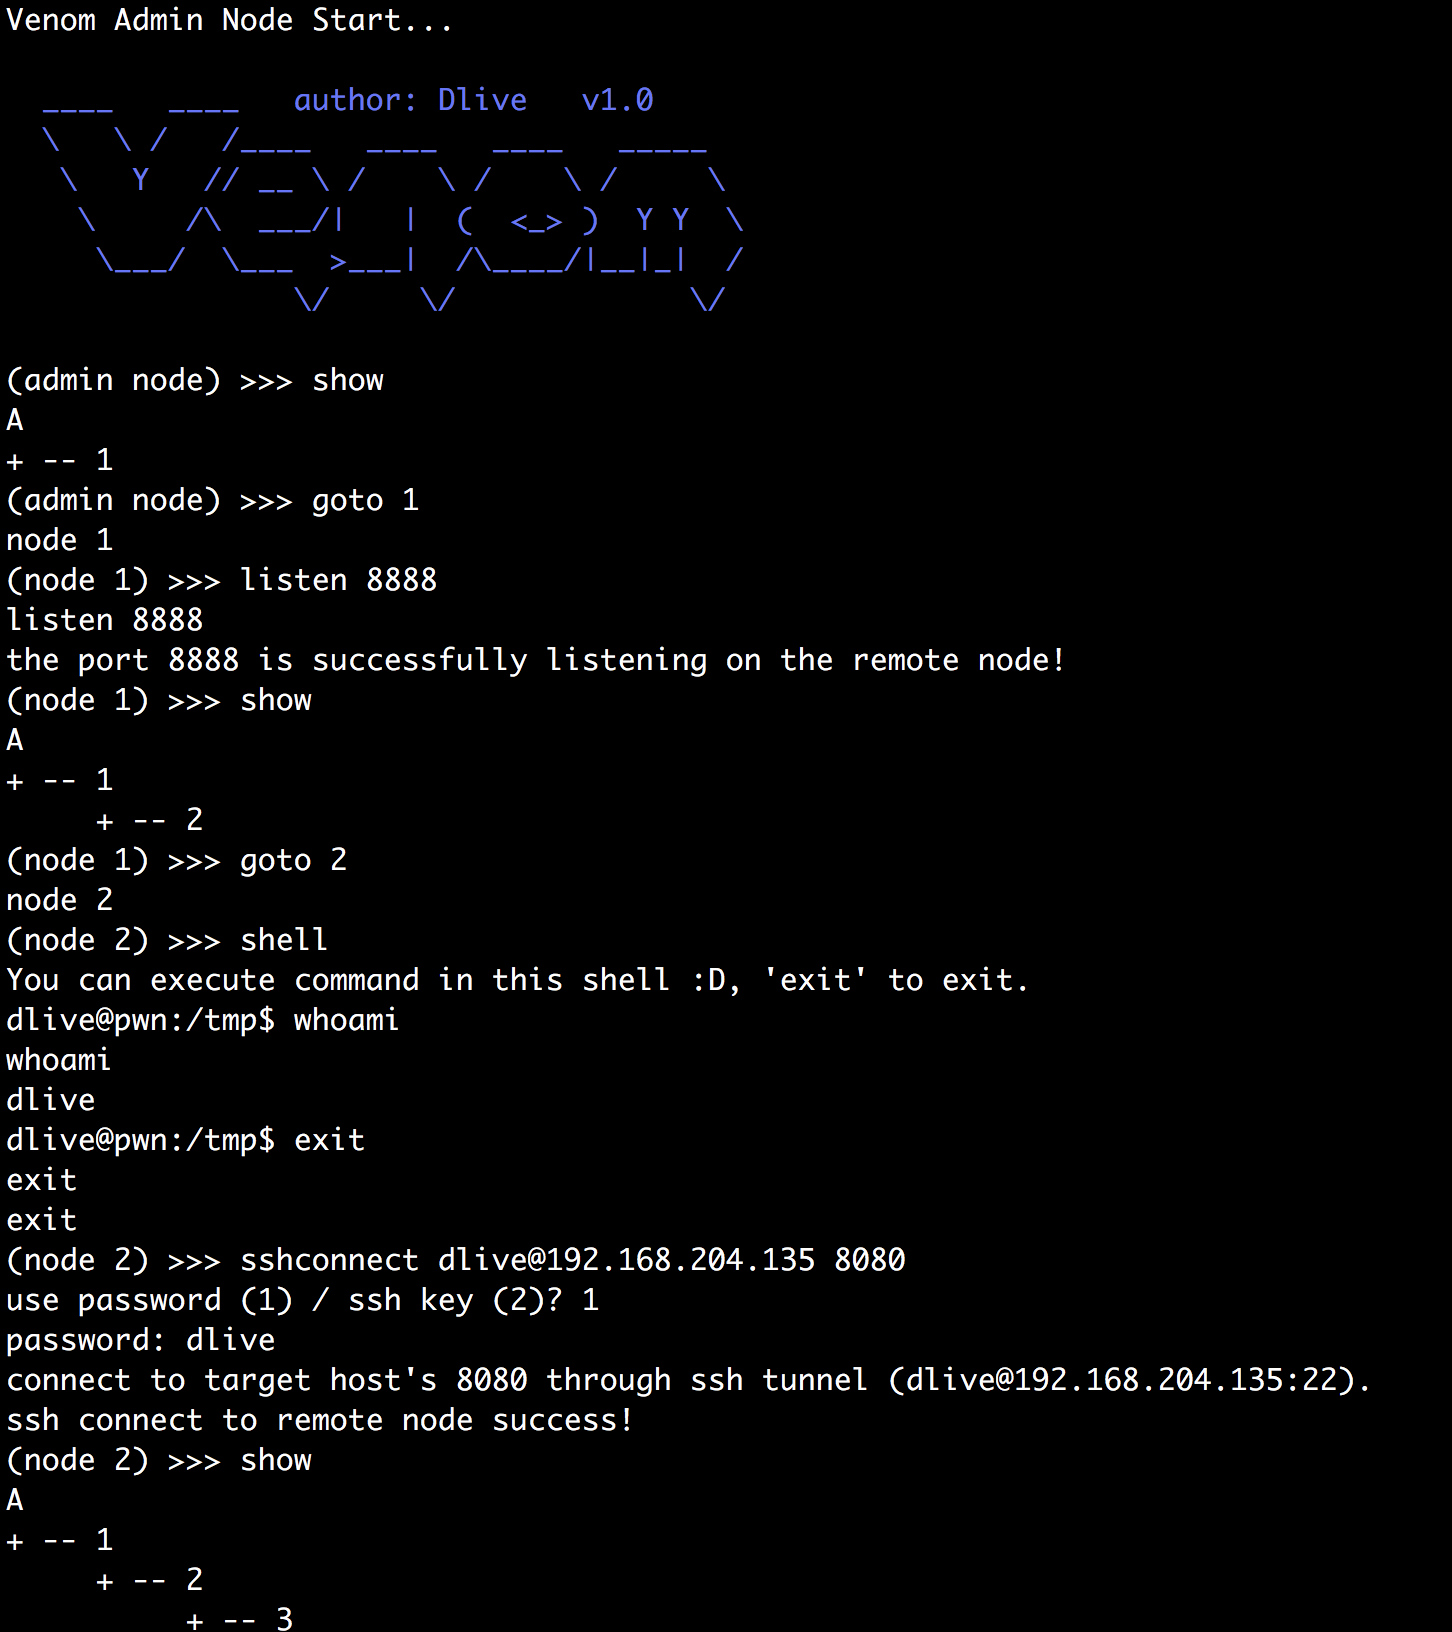
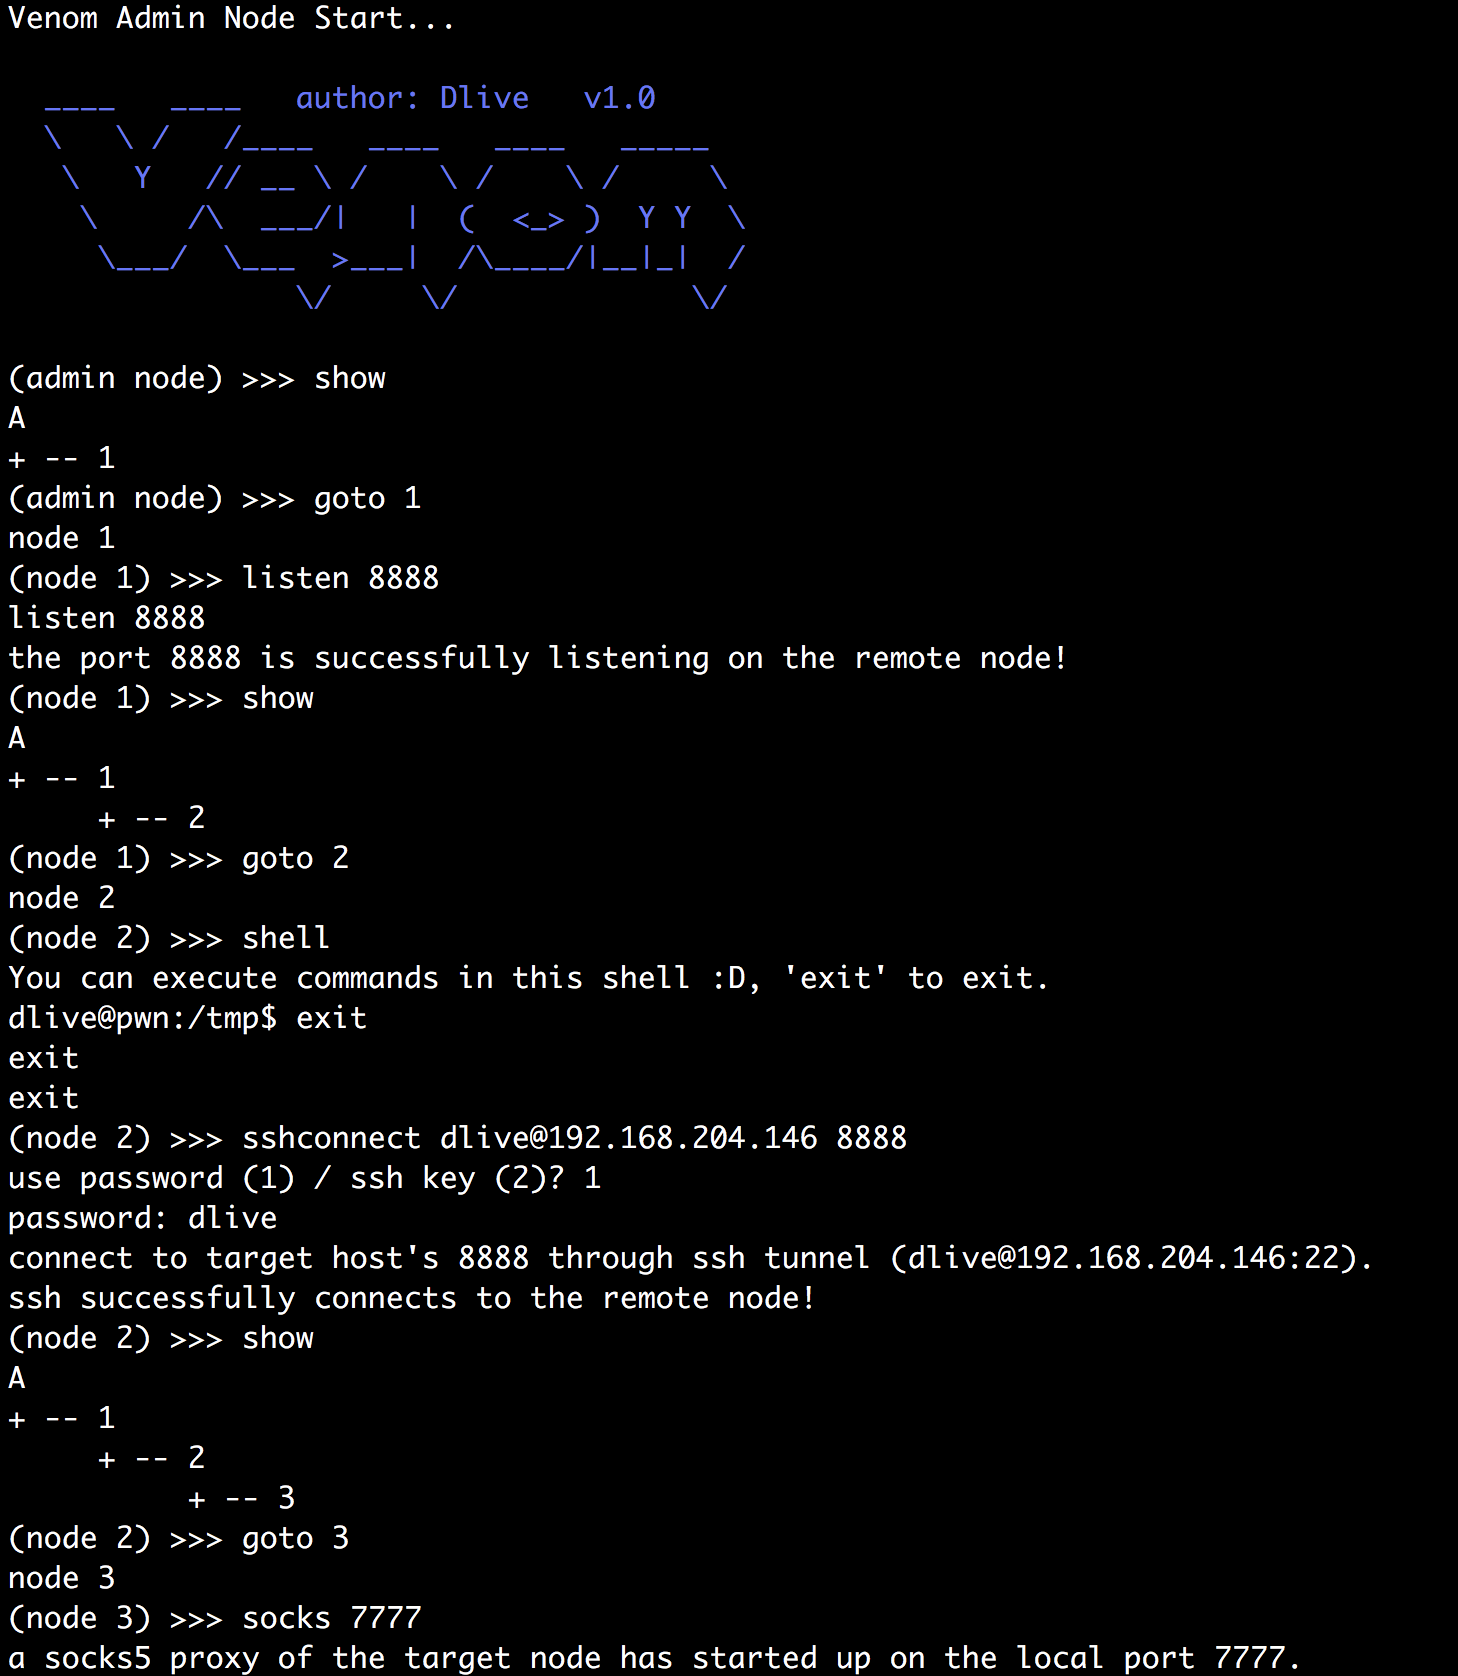
Updated README

diff --git a/README-en.md b/README-en.md
@@ -201,7 +201,7 @@ You can use venom to easily proxy network traffic to a multi-layer intranet, and
   use password (1) / ssh key (2)? 2
   file path of ssh key: /Users/dlive/.ssh/id_rsa
   connect to target host's 9999 through ssh tunnel (root@192.168.0.104:22).
-  ssh connect to remote node success!
+  ssh successfully connects to the remote node!
   (node 3) >>> show
   A
   + -- 1
@@ -214,7 +214,7 @@ You can use venom to easily proxy network traffic to a multi-layer intranet, and
 
   ```
   (node 1) >>> shell
-  You can execute dispather in this shell :D, 'exit' to exit.
+  You can execute commands in this shell :D, 'exit' to exit.
   bash: no job control in this shell
   bash-3.2$ whoami
   whoami

diff --git a/README.md b/README.md
@@ -192,7 +192,7 @@ Venom可将多个节点进行连接，然后以节点为跳板，构建多级代
   use password (1) / ssh key (2)? 2
   file path of ssh key: /Users/dlive/.ssh/id_rsa
   connect to target host's 9999 through ssh tunnel (root@192.168.0.104:22).
-  ssh connect to remote node success!
+  ssh successfully connects to the remote node!
   (node 3) >>> show
   A
   + -- 1
@@ -205,7 +205,7 @@ Venom可将多个节点进行连接，然后以节点为跳板，构建多级代
 
   ```
   (node 1) >>> shell
-  You can execute dispather in this shell :D, 'exit' to exit.
+  You can execute commands in this shell :D, 'exit' to exit.
   bash: no job control in this shell
   bash-3.2$ whoami
   whoami
